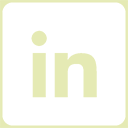
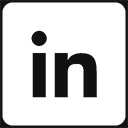
use dark theme colors

diff --git a/js/ping-heroku-apps.js b/js/ping-heroku-apps.js
@@ -1,38 +1,34 @@
 /* Pings Heroku apps when page opened or refreshed, or on any mouseover or click
-   if apps not pinged in last 15 minutes. Shows notice that Heroku app servers
+   if apps not pinged in last 15 minutes. Shows notices that Heroku app servers
    may be initializing when when page opened or refreshed, or on any mouseover
    or click if apps not pinged in last 30 minutes.*/
 
 (() => {
-
-  function pingIfDue() {
-    if ((new Date - last_run) / 1000 > 899) { // > 899 secs = 15 mins or more
-      if ((new Date - last_run) / 1000 > 1799) { // > 1799 secs = 30 mins or more
+  const pingIfDue = () => {
+    if ((new Date - lastPingAll) / 1000 > 899) { // > 899 secs = 15 mins or more
+      if ((new Date - lastPingAll) / 1000 > 1799) { // > 1799 secs = 30 mins or more
         showNotices();
       }
-      last_run = new Date;
+      lastPingAll = new Date;
       pingApps();
     }
-  }
+  };
 
-  function pingApp(index) {
+  const pingApp = (app) => {
     var p = new Ping();
-    //console.log(`ping call for: ${index}`); // DEBUG
 
-    p.ping(apps[index], function(err, data) {
-      // console.log(`pinged ${index} in ${data} ms`); // DEBUG
+    p.ping(app.url, function(err, data) {
+      // console.log(`pinged ${app.id} in ${data} ms`); // DEBUG
     });
-  }
+  };
 
-  function pingApps() {
-    let test = new Date;
-
-    for (var index in apps) {
-      pingApp(`${index}`);
+  const pingApps = () => {
+    for (let i = 0; i < apps.length; i++) {
+      pingApp(apps[i]);
     }
-  }
+  };
 
-  function updateNotices(action) {
+  const updateNotices = (action) => {
     for (i = 0; i < notices.length; i++) {
       if (action == 'hide') {
         notices[i].style.display = 'none';
@@ -52,9 +48,9 @@
         containers[i].style.display = 'block';
       }
     }
-  }
+  };
 
-  function animateNotices() {
+  const animateNotices = () => {
     const now = getTime();
     const delta = (now - lastUpdate) / FRAME_DURATION;
     noticeTime -= Math.round(delta);
@@ -68,20 +64,22 @@
     } else {
       updateNotices('countdown');
     }
-  }
+  };
 
-  function showNotices() {
+  const showNotices = () => {
     noticeTime = 31;
     lastUpdate = getTime();
     noticeAnim = setInterval(function(){ animateNotices() }, 1000);
-  }
+  };
 
-  let last_run = new Date;
-  let apps = {'Findr': 'https://findr-simontharby.herokuapp.com/',
-              'Dream Flights': 'https://dream-flights-simontharby.herokuapp.com/',
-              'Social Light': 'https://social-light-simontharby.herokuapp.com/',
-              'Members Only': 'https://members-only-simontharby.herokuapp.com/',
-              'Blogger': 'https://blogger-simontharby.herokuapp.com/'};
+  let lastPingAll = 0;
+  let apps = [
+    { id: 'findr', url: 'https://findr-simontharby.herokuapp.com/' },
+    { id: 'dFlights', url: 'https://dream-flights-simontharby.herokuapp.com/' },
+    { id: 'sLight', url: 'https://social-light-simontharby.herokuapp.com/' },
+    { id: 'mOnly', url: 'https://members-only-simontharby.herokuapp.com/' },
+    { id: 'blogger', url: 'https://blogger-simontharby.herokuapp.com/' }
+  ];
   const FRAME_DURATION = 1000;
   const getTime = typeof performance === 'function' ? performance.now : Date.now;
   let noticeTime = 31;
@@ -89,16 +87,10 @@
   let notices = document.querySelectorAll('.notice');
   let containers = document.querySelectorAll('.notice-container');
 
-  document.body.addEventListener('click', function() {
-    pingIfDue();
-  });
-
-  document.body.addEventListener('mouseover', function() {
-    pingIfDue();
-  });
+  document.body.addEventListener('click', pingIfDue);
+  document.body.addEventListener('mouseover', pingIfDue);
 
   updateNotices('hide');
-  showNotices();
-  pingApps();
+  pingIfDue();
 
 })();

diff --git a/css/custom.css b/css/custom.css
@@ -1,16 +1,20 @@
 :root {
-  --body-bg-color: #e5eab4;
-  --nav-bg-color: #004d40;
+  --body-bg-color: #111111;
+  --nav-bg-color: #202020;
+  --para-color: #a1a1a1;
   --butn-hov-color: #1c8674;
+  --primary-color: #00b3a6;
+  --secondary-color: #70efde;
+  --title-color: #e2e2e2;
 }
 
 body {
   background-color: var(--body-bg-color);
-  color: var(--nav-bg-color);
+  color: var(--para-color);
 }
 
 hr {
-  border: 1px solid var(--nav-bg-color);
+  border: 1px solid var(--primary-color);
 }
 
 img {
@@ -18,15 +22,38 @@ img {
   margin: auto;
 }
 
+h1 {
+  color: var(--title-color);
+}
+
+h2, h3 {
+  color: var(--primary-color);
+}
+
+a {
+  color: var(--primary-color);
+}
+
+a:hover {
+  color: var(--secondary-color);
+}
+
 .navbar {
   background-color: var(--nav-bg-color);
   background-image: none;
   background-repeat: no-repeat;
-  border-style: none;
+  border-style: solid;
+  border-width: 0px 0px 1px 0px;
+  border-color: var(--primary-color);
  }
 
  .nav-spacer {
    height: 100px;
+ }
+
+ .small-heading {
+   color: var(--title-color);
+   font-weight: bold;
  }
 
 .text-box {
@@ -34,18 +61,18 @@ img {
 }
 
 .butn {
-  background-color: var(--nav-bg-color);
+  background-color: var(--primary-color);
   display: block;
   margin: auto;
   width: 200px;
 }
 
 .butn:hover {
-  background-color: var(--butn-hov-color);
+  background-color: var(--secondary-color);
 }
 
 #emailBtn {
-  background-color: var(--nav-bg-color);
+  background-color: var(--primary-color);
   display: inline-block;
   margin-left: 23px;
   width: 70px;
@@ -53,7 +80,7 @@ img {
 }
 
 #emailBtn:hover {
-  background-color: var(--butn-hov-color);
+  background-color: var(--secondary-color);
 }
 
 #iconLinkedin {
@@ -65,14 +92,14 @@ img {
 }
 
 .icon {
-  background-color: var(--nav-bg-color);
+  background-color: var(--primary-color);
   width: 50px;
   height: 50px;
   display: inline-block;
 }
 
 .icon:hover {
-  background-color: var(--butn-hov-color);
+  background-color: var(--secondary-color);
 }
 
 .grey {

diff --git a/index.html b/index.html
@@ -57,13 +57,13 @@
         <div class="col-md-3 mb-4">
           <img class="img-fluid" style="float:left;margin-bottom:20px;" src="img/me.jpg" alt="me">
           <BR CLEAR="right">
-          <p style="font-weight:bold;">Location:</p>
+          <p class="small-heading">Location:</p>
           <p style="width:90%;margin-top:-10px;">Devon, UK</p>
-          <p style="margin-top:10px;font-weight:bold;">Key competencies:</p>
+          <p class="small-heading" style="margin-top:10px;">Key competencies:</p>
           <p style="width:90%;margin-top:-10px;">Ruby, JavaScript, Python, C# / Rails / SQL, CSS, HTML, Bootstrap</p>
-          <p style="font-weight:bold;">Skills:</p>
+          <p class="small-heading">Skills:</p>
           <p style="width:90%;margin-top:-10px;">Programming, communication, teamwork, editing, design, project-development</p>
-          <p style="font-weight:bold;">Languages:</p>
+          <p class="small-heading">Languages:</p>
           <p class="d-block d-md-none" style="width:90%;margin-top:-10px;">English (native), Portuguese (advanced)</p>
           <p class="d-none d-md-block" style="width:90%;margin-top:-10px;">English (native)</p>
           <p class="d-none d-md-block" style="width:90%;;margin-top:-15px;">Portuguese (advanced)</p>
